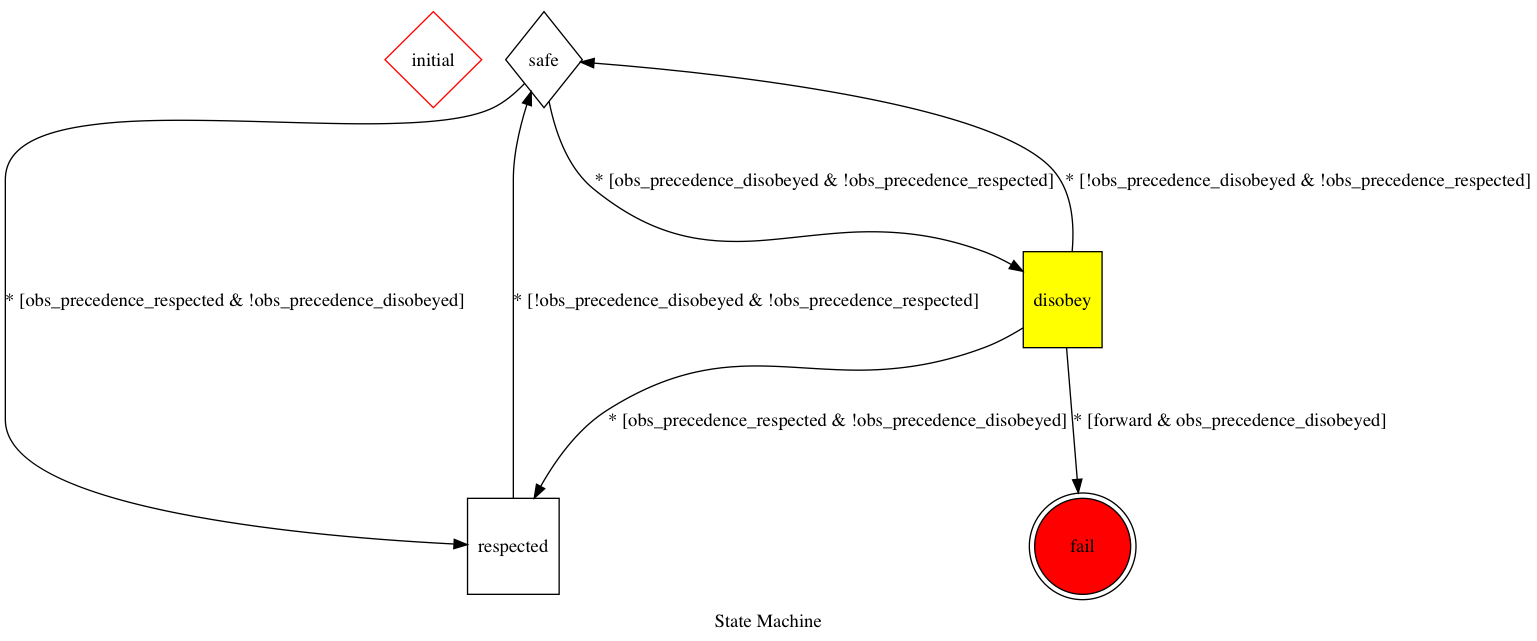
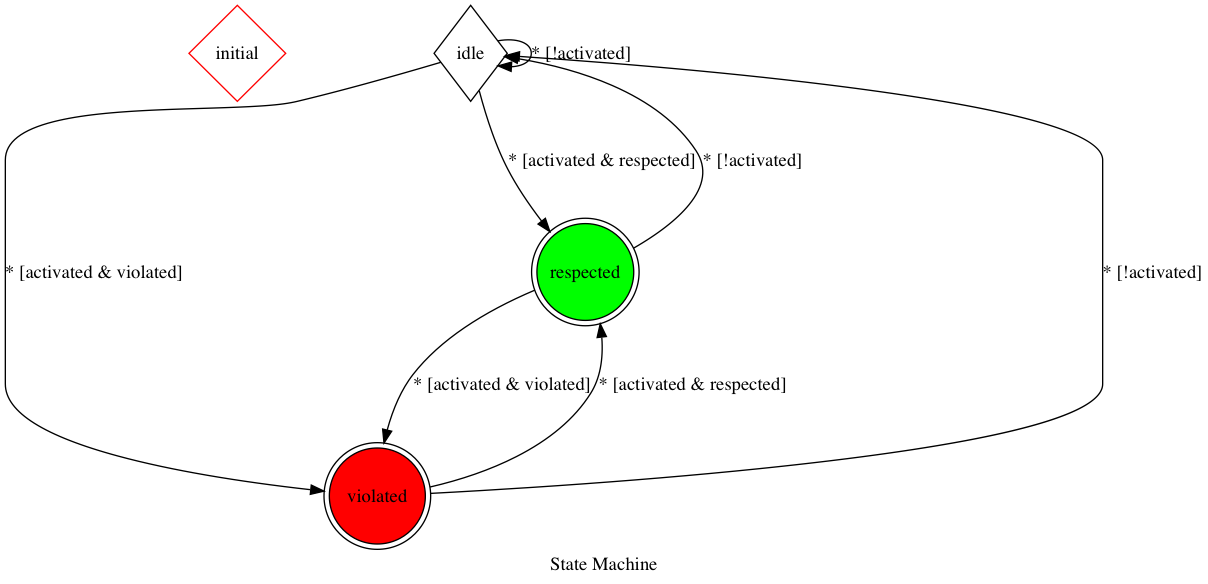
refactoring Precedence pattern

diff --git a/gym_minigrid/monitors/patterns/precedence.py b/gym_minigrid/monitors/patterns/precedence.py
@@ -16,9 +16,9 @@ class Precedence(SafetyStateMachine):
          'type': 'inf_ctrl',
          'on_enter': '_on_monitoring'},
 
-        {'name': 'safe',
+        {'name': 'idle',
          'type': 'inf_ctrl',
-         'on_enter': '_on_safe'},
+         'on_enter': '_on_idle'},
 
         {'name': 'respected',
          'type': 'satisfied',
@@ -35,68 +35,69 @@ class Precedence(SafetyStateMachine):
          'dest': '*'},
 
         {'trigger': '*',
-         'source': 'safe',
-         'dest': 'safe',
-         'unless': 'obs_precedence_active'},
+         'source': 'idle',
+         'dest': 'idle',
+         'unless': 'activated'},
 
         {'trigger': '*',
-         'source': 'safe',
+         'source': 'idle',
          'dest': 'respected',
-         'conditions': ['obs_precedence_active','obs_precedence_respected']},
+         'conditions': ['activated', 'respected']},
 
         {'trigger': '*',
-         'source': 'safe',
+         'source': 'idle',
          'dest': 'violated',
-         'conditions': ['obs_precedence_active', 'obs_precedence_violated']},
+         'conditions': ['activated', 'violated']},
 
         {'trigger': '*',
          'source': 'respected',
          'dest': 'violated',
-         'conditions': ['obs_precedence_active', 'obs_precedence_violated']},
+         'conditions': ['activated', 'violated']},
 
         {'trigger': '*',
          'source': 'violated',
          'dest': 'respected',
-         'conditions': ['obs_precedence_active', 'obs_precedence_respected']},
+         'conditions': ['activated', 'respected']},
 
         {'trigger': '*',
          'source': 'violated',
-         'dest': 'safe',
-         'unless': 'obs_precedence_active'},
+         'dest': 'idle',
+         'unless': 'activated'},
 
         {'trigger': '*',
          'source': 'respected',
-         'dest': 'safe',
-         'unless': 'obs_precedence_active'},
+         'dest': 'idle',
+         'unless': 'activated'},
     ]
 
     obs = {
         "precedenceRespected": False
     }
 
-    def __init__(self, name, object_prec, notify, reward):
-        self.precedenceRespectedReward = reward.precedenceRespected
-        self.precedenceViolatedReward = reward.precedenceViolated
-        self.precondition = object_prec.preCondition
-        self.postcondition = object_prec.postCondition
+    def __init__(self, name, conditions, notify, rewards):
+        self.precedenceRespectedReward = rewards.precedenceRespected
+        self.precedenceViolatedReward = rewards.precedenceViolated
+        self.precondition = conditions.preCondition
+        self.postcondition = conditions.postCondition
         self.active = False
-        super().__init__(object_prec.name, "precedence", self.states, self.transitions, 'initial', notify)
+        super().__init__(conditions.name, "precedence", self.states, self.transitions, 'initial', notify)
 
     # Convert observations to state and populate the obs_conditions
     def _obs_to_state(self, obs):
         # Get observations conditions
-        self.active = p.precedence_condition(obs,self.postcondition)
-        if self.active :
-            if p.precedence_condition(obs,self.precondition):
-                Precedence.obs["precedenceRespected"]=True
+        self.active = p.is_condition_satisfied(obs, self.postcondition)
+
+        if self.active:
+            if p.is_condition_satisfied(obs, self.precondition):
+                Precedence.obs["precedenceRespected"] = True
                 return 'respected'
             else:
                 Precedence.obs["precedenceRespected"] = False
                 return 'violated'
         else:
-            return 'safe'
+            return 'idle'
 
-    def _on_safe(self):
+    def _on_idle(self):
         super()._on_monitoring()
 
     def _on_active(self):
@@ -108,46 +109,12 @@ class Precedence(SafetyStateMachine):
     def _on_violated(self):
         super()._on_violated(self.precedenceViolatedReward)
 
-    def obs_precedence_active(self):
+    def activated(self):
         return self.active
 
-    def obs_precedence_respected(self):
-        return self.active and Precedence.obs["precedenceRespected"]==True
+    def respected(self):
+        return self.active and Precedence.obs["precedenceRespected"] == True
 
-    def obs_precedence_violated(self):
-        return self.active and Precedence.obs["precedenceRespected"]==False
-
-class StateTypes(SafetyStateMachine):
-    """ Testing """
-
-    states = [
-
-        {'name': 'initial',
-         'type': 'inf_ctrl'},
-
-        {'name': 'satisfied',
-         'type': 'satisfied'},
-
-        {'name': 'inf_ctrl',
-         'type': 'inf_ctrl'},
-
-        {'name': 'sys_fin_ctrl',
-         'type': 'sys_fin_ctrl'},
-
-        {'name': 'env_fin_ctrl',
-         'type': 'env_fin_ctrl'},
-
-        {'name': 'violated',
-         'type': 'violated'}
-    ]
-
-    transitions = []
-
-    # Convert the observations stored in self.current_obs in a state a saves the state in current_state
-    def _obs_to_state(self, obs):
-        self.curret_state = ''
-
-    def __init__(self, name, notify):
-        # Initializing the SafetyStateMachine
-        super().__init__(name, self.states, self.transitions, 'initial', notify)
+    def violated(self):
+        return self.active and Precedence.obs["precedenceRespected"] == False
 
